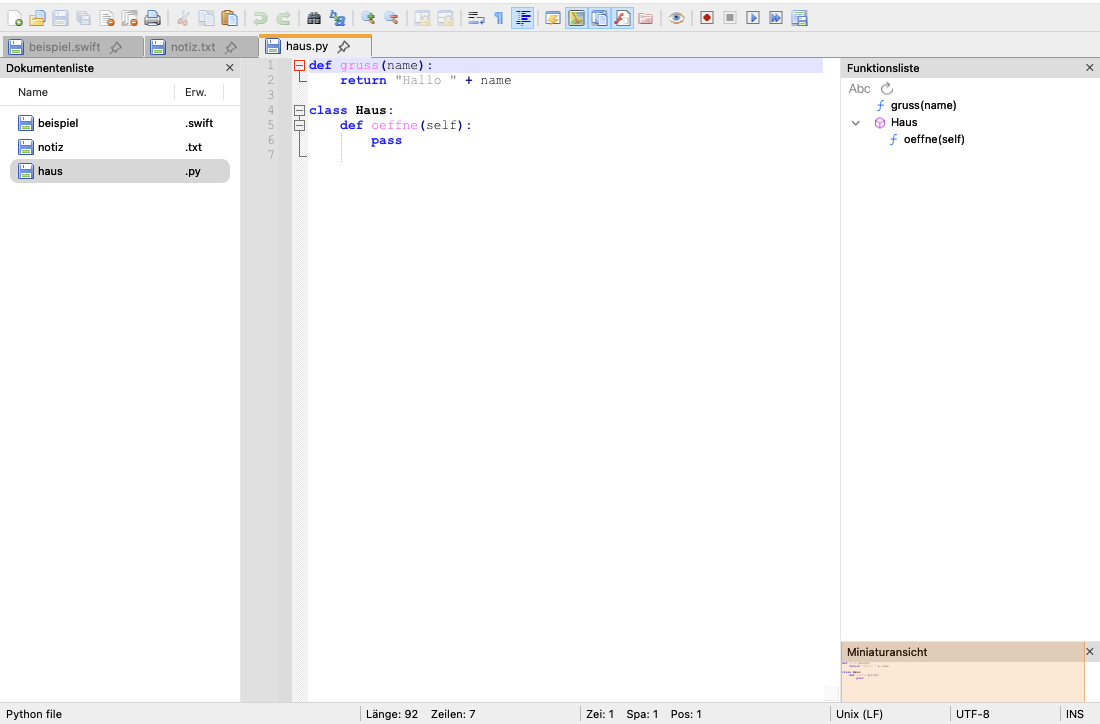
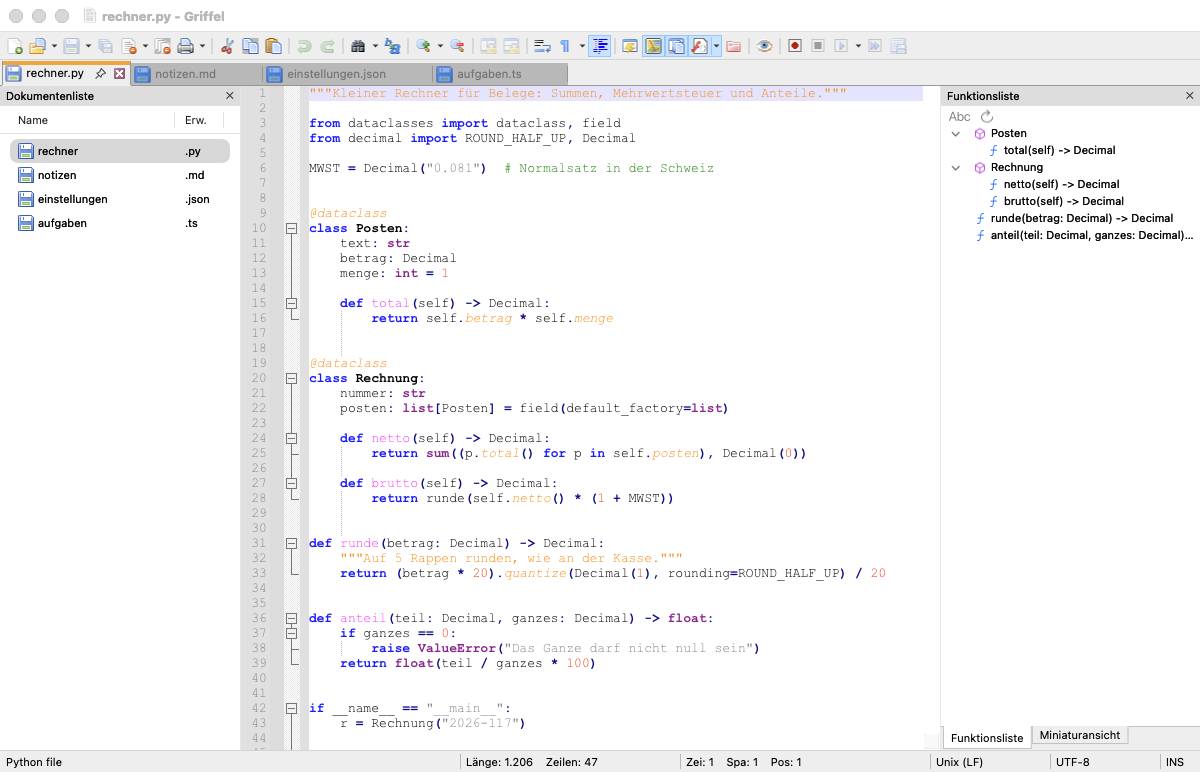
README: neue Bilder, erneuerbar mit scripts/bilder.sh
Fünf Bilder in docs/bilder/: das Fenster hell (Python mit Funktionsliste)
und dunkel (TypeScript, Farbschema DarkModeDefault, Miniaturansicht), der
Suchen-Dialog, der JSON Viewer und «Optionen».

Sie entstehen mit der neuen Selbstprüfung «bilder». scripts/bilder.sh
startet dafür eine Kopie der App mit eigener Kennung und leeren
Einstellungen im Hintergrund, öffnet die Beispiele aus
docs/bilder/beispiele/ und legt die Bilder nach docs/bilder/. Der kurze
Fenstertitel zeigt nur den Dateinamen; darum darf die Titelleiste mit
«… - Griffel» im Bild bleiben.

diff --git a/Sources/Kladde/Probe.swift b/Sources/Kladde/Probe.swift
@@ -77,6 +77,9 @@ enum Probe {
         case "oberflaeche":
             oberflaeche(ordner: ordner, bericht: { bericht.append($0) }, fertig: schliesse)
             return
+        case "bilder":
+            bilder(ordner: ordner, bericht: { bericht.append($0) }, fertig: schliesse)
+            return
         case "suchen":
             sucheProbe(dokumente: dokumente, ordner: ordner, bericht: { bericht.append($0) }, fertig: schliesse)
             return
@@ -521,6 +524,84 @@ enum Probe {
             DispatchQueue.main.asyncAfter(deadline: .now() + 0.3) { fuehreAus(i + 1) }
         }
         fuehreAus(0)
+    }
+
+    /// Die Bilder fürs README (scripts/bilder.sh legt sie nach docs/bilder/): das
+    /// Fenster hell mit Python und dunkel mit TypeScript, beide mit Seitenleisten,
+    /// dazu der Suchen-Dialog, der JSON Viewer und «Optionen». Die Beispiele aus
+    /// docs/bilder/beispiele/ kommen beim Start mit. Der kurze Fenstertitel zeigt
+    /// nur den Dateinamen, keinen Pfad. Die Einstellungen gehen danach zurück.
+    private static func bilder(ordner: URL, bericht: @escaping (String) -> Void, fertig: @escaping () -> Void) {
+        let h = Hauptfenster.gemeinsam
+        guard let fenster = h.window else { return fertig() }
+        let vorher = (Einstellungen.funktionslisteSichtbar, Einstellungen.dokumentenlisteSichtbar,
+                      Einstellungen.miniaturansichtSichtbar, Einstellungen.farbschema, Einstellungen.kurzerTitel)
+        func vorne(_ endung: String) {
+            if let d = h.tabs.first(where: { $0.fileURL?.pathExtension == endung }) { h.aktiviere(d) }
+            h.tabsGeaendert()
+            h.editor?.ersteZeile = 0
+        }
+        var schritte: [() -> Void] = []
+        schritte.append {
+            NSApp.appearance = NSAppearance(named: .aqua)
+            Einstellungen.farbschema = "Standard"
+            Einstellungen.kurzerTitel = true
+            Einstellungen.funktionslisteSichtbar = true
+            Einstellungen.dokumentenlisteSichtbar = true
+            Einstellungen.miniaturansichtSichtbar = true
+            Panels.gemeinsam.anwenden()
+            fenster.setContentSize(NSSize(width: 1200, height: 740))
+            h.ordneDocks()
+            h.rechterDock.waehle(Panels.gemeinsam.funktionslisteLeiste)
+            vorne("py")
+        }
+        schritte.append {}
+        schritte.append { bild(von: fenster, nach: ordner.appendingPathComponent("griffel.png")) }
+        schritte.append {
+            NSApp.appearance = NSAppearance(named: .darkAqua)
+            Einstellungen.farbschema = "DarkModeDefault"
+            // Für TypeScript findet die Funktionsliste von Notepad++ keine Methoden.
+            h.rechterDock.waehle(Panels.gemeinsam.miniaturLeiste)
+            vorne("ts")
+        }
+        schritte.append {}
+        schritte.append { bild(von: fenster, nach: ordner.appendingPathComponent("griffel-dunkel.png")) }
+        schritte.append {
+            NSApp.appearance = NSAppearance(named: .aqua)
+            Einstellungen.farbschema = "Standard"
+            vorne("py")
+            SuchenDialog.gemeinsam.setzeSuchtextFuerProbe("Rechnung", ersetzung: "Beleg")
+            SuchenDialog.gemeinsam.zeige(.ersetzen)
+        }
+        schritte.append {}
+        schritte.append {
+            if let w = SuchenDialog.gemeinsam.window { bild(von: w, nach: ordner.appendingPathComponent("suchen.png")) }
+            SuchenDialog.gemeinsam.close()
+            fenster.makeKeyAndOrderFront(nil)
+            vorne("json")
+            // Der Befehl schaltet um; nur öffnen, wenn der Viewer noch fehlt.
+            if !h.rechterDock.enthaelt(Panels.gemeinsam.jsonLeiste) { Plugins.gemeinsam.fuehreAus("json.viewer") }
+        }
+        schritte.append { h.rechterDock.waehle(Panels.gemeinsam.jsonLeiste) }
+        schritte.append { bild(von: fenster, nach: ordner.appendingPathComponent("json-viewer.png")) }
+        schritte.append {
+            EinstellungsFenster.gemeinsam.zeige()
+            EinstellungsFenster.gemeinsam.zeigeSeite(kennung: "Tabbar")
+        }
+        schritte.append {}
+        schritte.append {
+            if let w = EinstellungsFenster.gemeinsam.window { bild(von: w, nach: ordner.appendingPathComponent("optionen.png")) }
+            EinstellungsFenster.gemeinsam.close()
+            bericht("bilder: tabs \(h.tabs.map(\.tabTitel)), titel «\(fenster.title)»")
+            NSApp.appearance = nil
+            (Einstellungen.funktionslisteSichtbar, Einstellungen.dokumentenlisteSichtbar,
+             Einstellungen.miniaturansichtSichtbar, Einstellungen.farbschema, Einstellungen.kurzerTitel) = vorher
+            fertig()
+        }
+        // Mit Pausen, damit Scintilla, Seitenleisten und Dialoge zeichnen.
+        for (index, schritt) in schritte.enumerated() {
+            DispatchQueue.main.asyncAfter(deadline: .now() + 0.5 * Double(index), execute: schritt)
+        }
     }
 
     /// Bilder der Oberfläche: Fenster hell und dunkel, Seitenleisten, Suchergebnis,

diff --git a/docs/bilder/beispiele/aufgaben.ts b/docs/bilder/beispiele/aufgaben.ts
@@ -1,0 +1,45 @@
+// Eine kleine Aufgabenliste mit Fälligkeit und Priorität.
+
+type Prioritaet = "hoch" | "mittel" | "tief";
+
+interface Aufgabe {
+  id: number;
+  titel: string;
+  erledigt: boolean;
+  faellig?: Date;
+  prioritaet: Prioritaet;
+}
+
+export class Aufgabenliste {
+  private aufgaben: Aufgabe[] = [];
+  private naechsteId = 1;
+
+  hinzufuegen(titel: string, prioritaet: Prioritaet = "mittel"): Aufgabe {
+    const neu = { id: this.naechsteId++, titel, erledigt: false, prioritaet };
+    this.aufgaben.push(neu);
+    return neu;
+  }
+
+  faelligAm(id: number, datum: Date): void {
+    const aufgabe = this.aufgaben.find((a) => a.id === id);
+    if (aufgabe) aufgabe.faellig = datum;
+  }
+
+  erledigen(id: number): void {
+    const aufgabe = this.aufgaben.find((a) => a.id === id);
+    if (aufgabe) aufgabe.erledigt = true;
+  }
+
+  offene(): Aufgabe[] {
+    return this.aufgaben.filter((a) => !a.erledigt);
+  }
+
+  ueberfaellig(heute = new Date()): Aufgabe[] {
+    return this.offene().filter((a) => a.faellig && a.faellig < heute);
+  }
+}
+
+export function nachPrioritaet(liste: Aufgabe[]): Aufgabe[] {
+  const rang: Record<Prioritaet, number> = { hoch: 0, mittel: 1, tief: 2 };
+  return [...liste].sort((a, b) => rang[a.prioritaet] - rang[b.prioritaet]);
+}

diff --git a/docs/bilder/beispiele/rechner.py b/docs/bilder/beispiele/rechner.py
@@ -1,0 +1,46 @@
+"""Kleiner Rechner für Belege: Summen, Mehrwertsteuer und Anteile."""
+
+from dataclasses import dataclass, field
+from decimal import ROUND_HALF_UP, Decimal
+
+MWST = Decimal("0.081")  # Normalsatz in der Schweiz
+
+
+@dataclass
+class Posten:
+    text: str
+    betrag: Decimal
+    menge: int = 1
+
+    def total(self) -> Decimal:
+        return self.betrag * self.menge
+
+
+@dataclass
+class Rechnung:
+    nummer: str
+    posten: list[Posten] = field(default_factory=list)
+
+    def netto(self) -> Decimal:
+        return sum((p.total() for p in self.posten), Decimal(0))
+
+    def brutto(self) -> Decimal:
+        return runde(self.netto() * (1 + MWST))
+
+
+def runde(betrag: Decimal) -> Decimal:
+    """Auf 5 Rappen runden, wie an der Kasse."""
+    return (betrag * 20).quantize(Decimal(1), rounding=ROUND_HALF_UP) / 20
+
+
+def anteil(teil: Decimal, ganzes: Decimal) -> float:
+    if ganzes == 0:
+        raise ValueError("Das Ganze darf nicht null sein")
+    return float(teil / ganzes * 100)
+
+
+if __name__ == "__main__":
+    r = Rechnung("2026-117")
+    r.posten.append(Posten("Kaffee", Decimal("4.50"), 2))
+    r.posten.append(Posten("Gipfeli", Decimal("2.20"), 3))
+    print(f"Rechnung {r.nummer}: {r.brutto()} CHF")

diff --git a/docs/bilder/beispiele/notizen.md b/docs/bilder/beispiele/notizen.md
@@ -1,0 +1,9 @@
+# Notizen
+
+Griffel ist ein Texteditor für den Mac nach dem Vorbild von Notepad++.
+
+## Heute
+
+- [x] Icon gewählt: Blatt mit Eselsohr
+- [x] Release 1.5.0
+- [ ] Bilder fürs README
